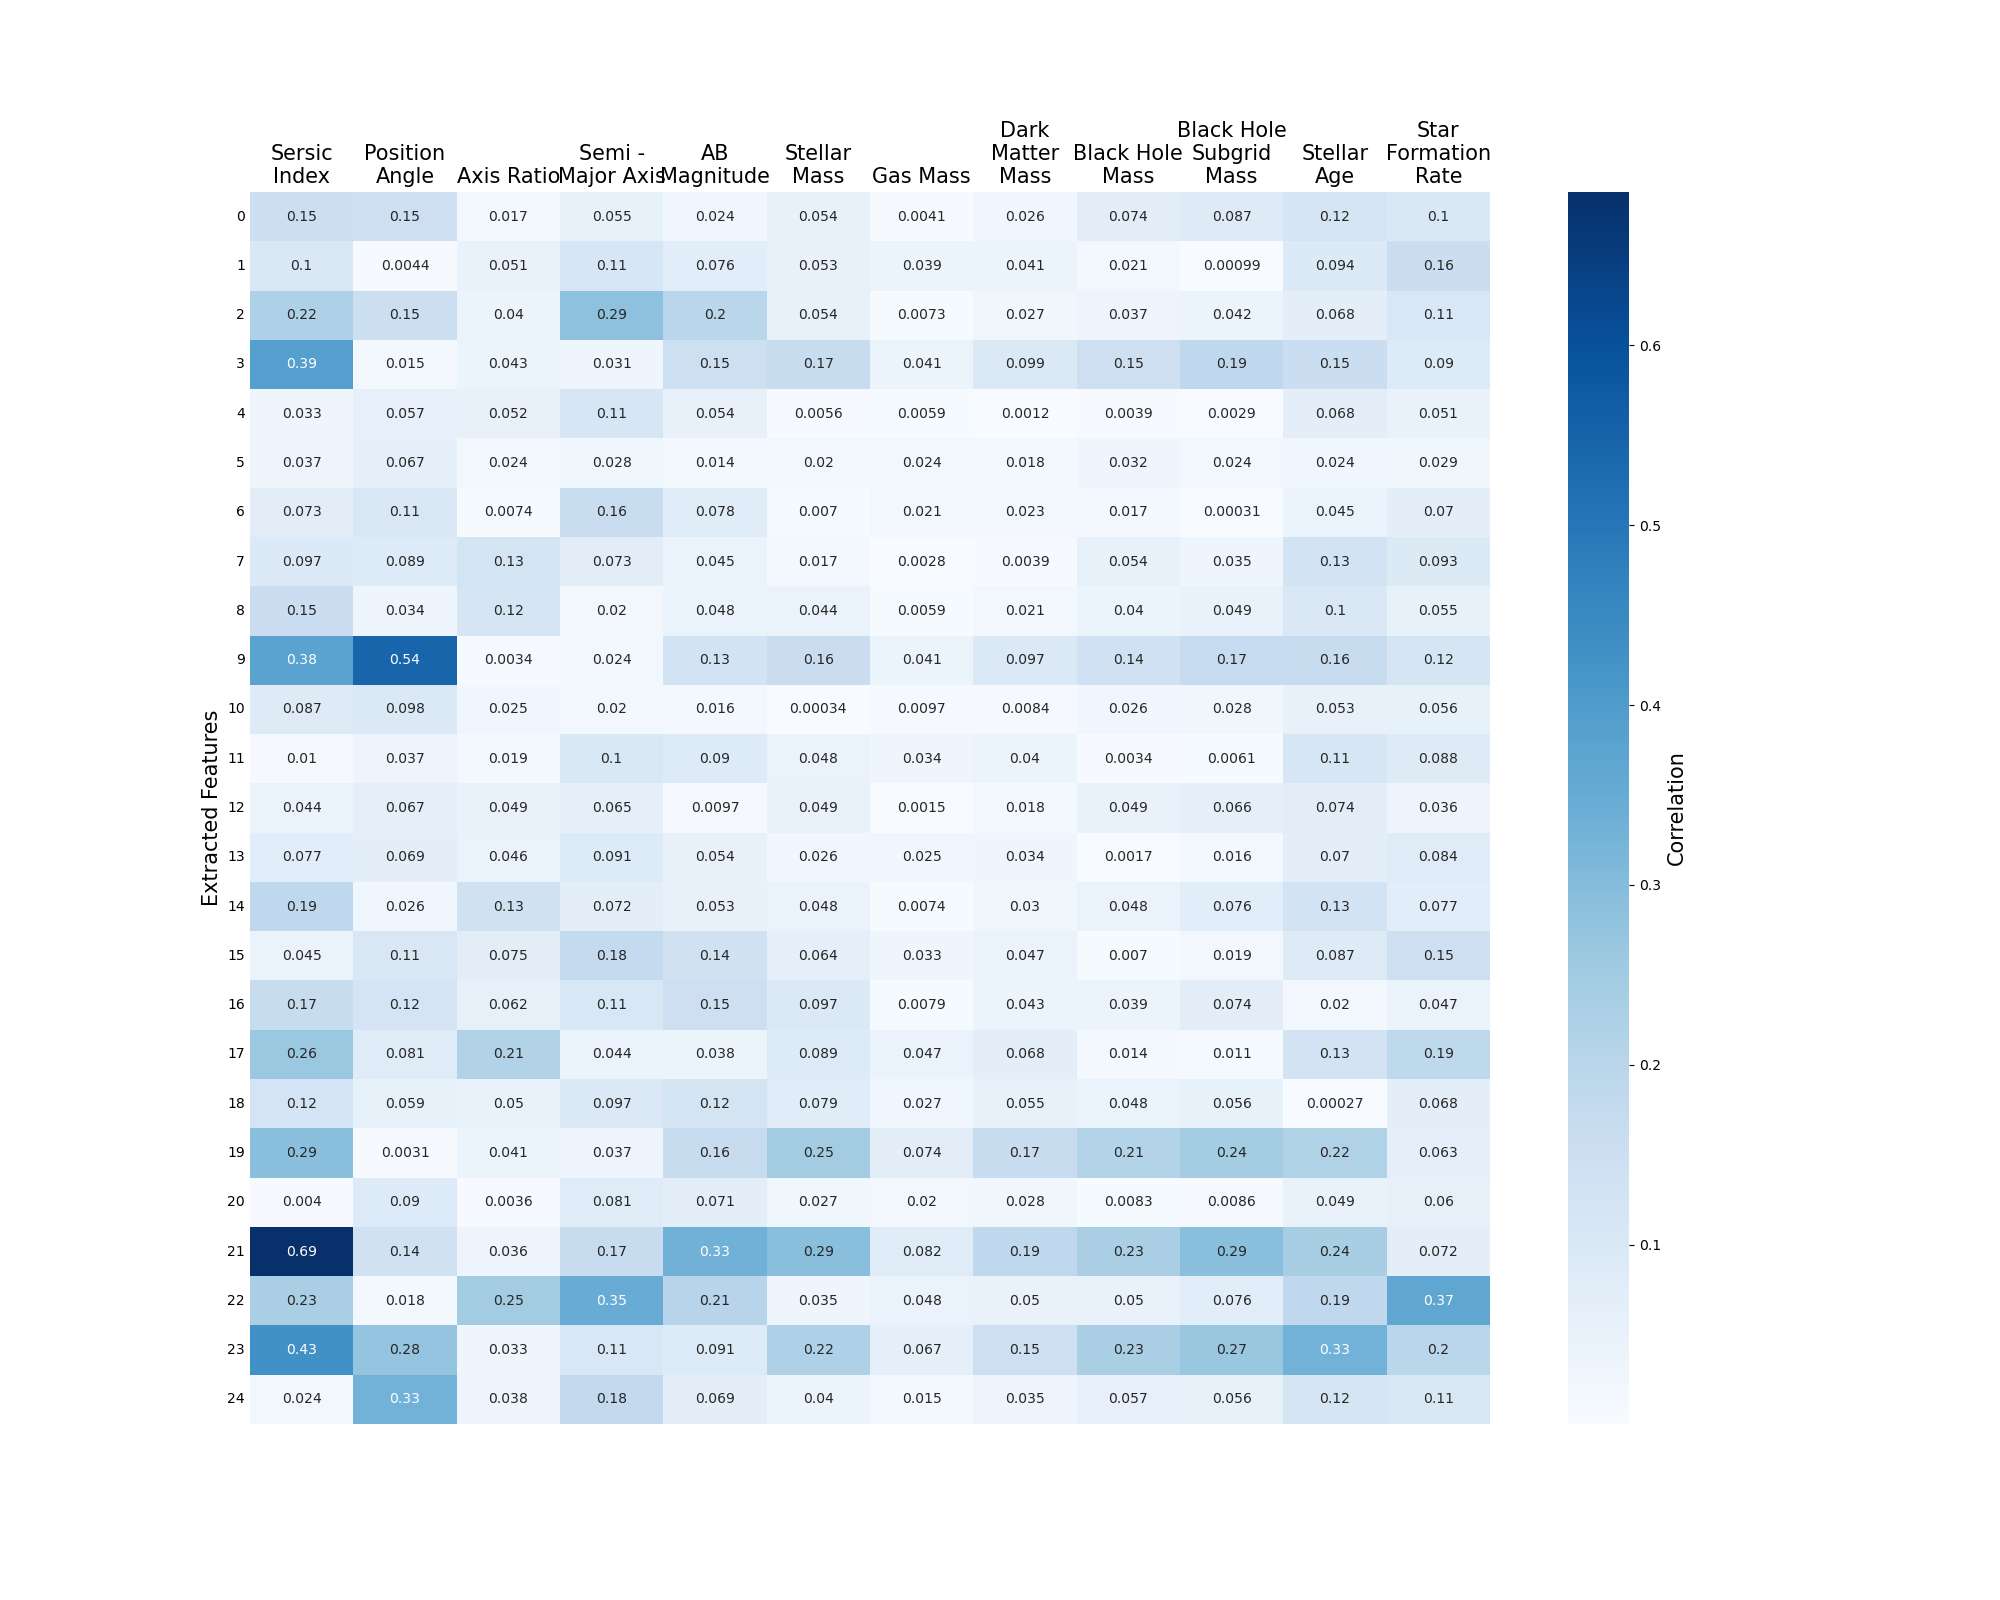
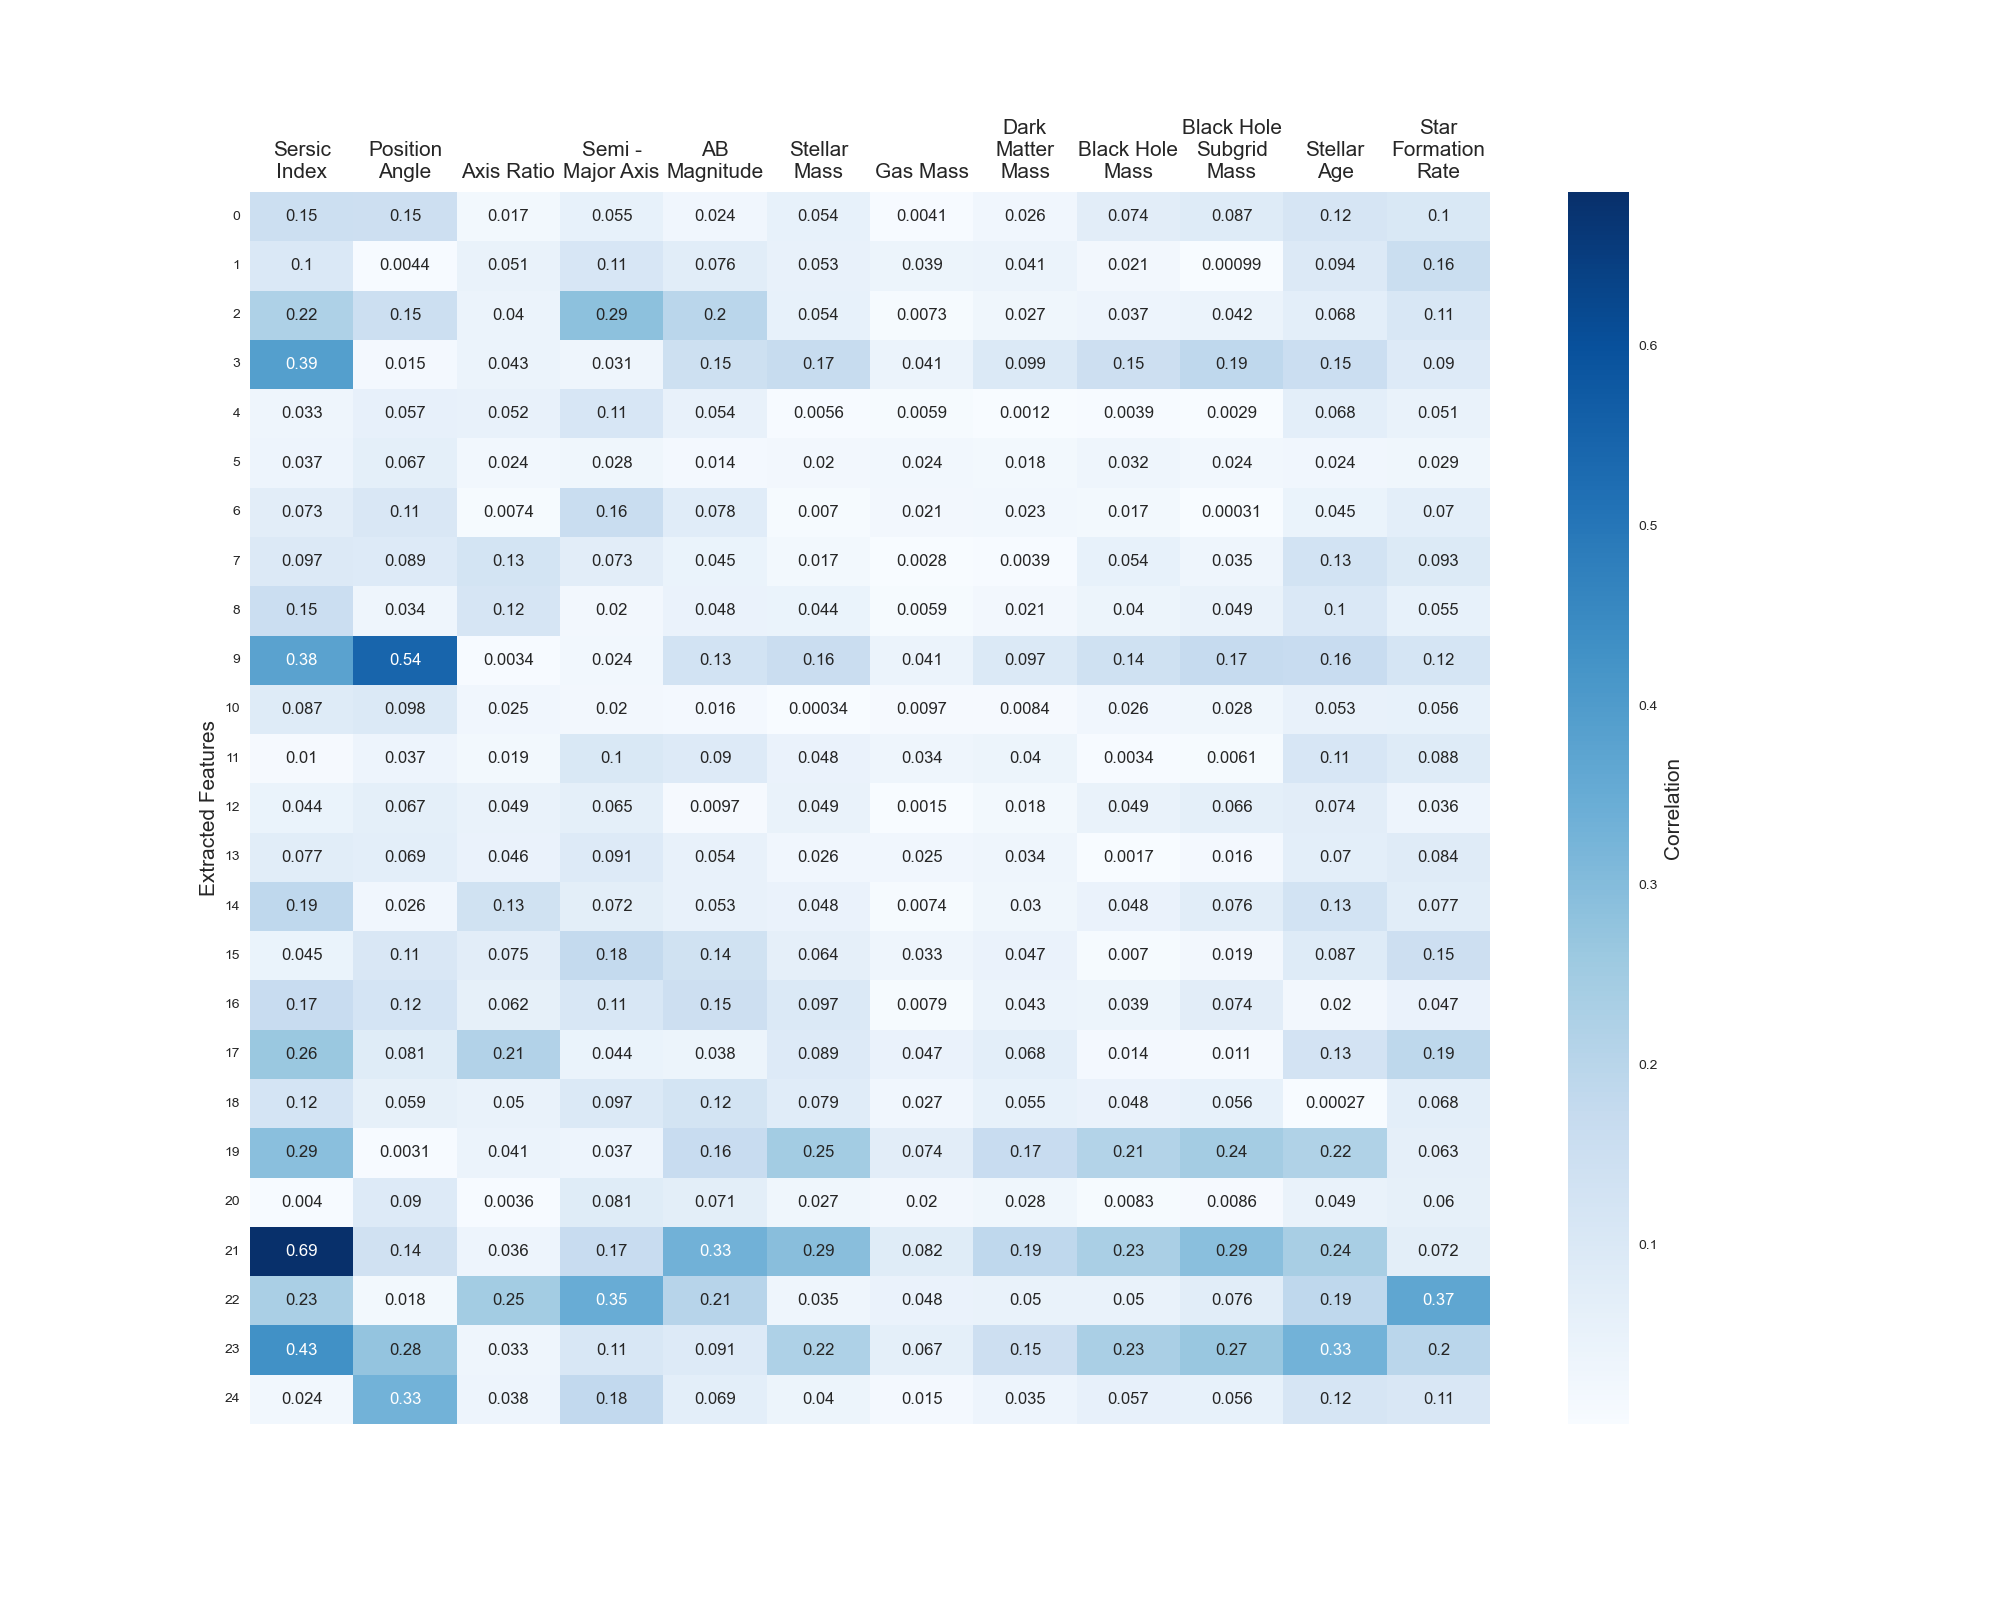
Code

diff --git a/correlation_plot.py b/correlation_plot.py
@@ -7,7 +7,7 @@ from sklearn.cluster import AgglomerativeClustering
 from yellowbrick.cluster import KElbowVisualizer
 
 
-encoding_dim = 40
+encoding_dim = 25
 
 
 extracted_features = np.load("Features Rand/" + str(encoding_dim) + "_features_2.npy")
@@ -85,18 +85,24 @@ print(correlation_df)
 # # set the figure size
 # plt.figure(figsize=(12, 16))
 #
-# # sns.set(font_scale = 2)
+# sns.set(font_scale=1.5)
 #
 # # plot a heatmap for the dataframe (with annotations)
-# ax = sns.heatmap(abs(structure_correlation_df), annot=True, cmap="Blues", cbar_kws={'label': 'Correlation'})
+# ax = sns.heatmap(abs(correlation_df[["Sersic Index", "Position Angle", "Axis Ratio"]]), annot=True, cmap="Blues", cbar_kws={'label': 'Correlation Coefficient'})
 #
 #
 # plt.yticks(rotation=0)
-# plt.ylabel("Extracted Features", fontsize=15)
+# plt.ylabel("Extracted Features", fontsize=22, labelpad=10)
 # ax.xaxis.tick_top() # x axis on top
 # ax.xaxis.set_label_position('top')
 # ax.tick_params(length=0)
-# ax.figure.axes[-1].yaxis.label.set_size(15)
+#
+# ax.figure.axes[-1].yaxis.label.set_size(22)
+# ax.figure.axes[-1].yaxis.labelpad = 15
+#
+#
+# # colorbar = plt.colorbar(ax)
+# # colorbar.setlabel("Correlation Coefficient", fontsize=22, labelpad=10)
 #
 #
 # def wrap_labels(ax, width, break_long_words=False):
@@ -105,51 +111,14 @@ print(correlation_df)
 #         text = label.get_text()
 #         labels.append(textwrap.fill(text, width=width,
 #                       break_long_words=break_long_words))
-#     ax.set_xticklabels(labels, rotation=0, fontsize=15)
+#     ax.set_xticklabels(labels, rotation=0, fontsize=22)
 #
 # wrap_labels(ax, 10)
 #
 #
 #
-# plt.savefig("Correlation Plots Rand/" + str(encoding_dim) + "_feature_structure_property_correlation")
+# plt.savefig("Correlation Plots Rand/" + str(encoding_dim) + "_feature_structure_property_correlation_2.eps")
 # plt.show()
-
-
-
-
-# # set the figure size
-# plt.figure(figsize=(15, 16))
-#
-# # sns.set(font_scale = 2)
-#
-# # plot a heatmap for the dataframe (with annotations)
-# ax = sns.heatmap(abs(physical_correlation_df), annot=True, cmap="Blues", cbar_kws={'label': 'Correlation'})
-#
-#
-# plt.yticks(rotation=0)
-# plt.ylabel("Extracted Features", fontsize=15)
-# ax.xaxis.tick_top() # x axis on top
-# ax.xaxis.set_label_position('top')
-# ax.tick_params(length=0)
-# ax.figure.axes[-1].yaxis.label.set_size(15)
-#
-#
-# def wrap_labels(ax, width, break_long_words=False):
-#     labels = []
-#     for label in ax.get_xticklabels():
-#         text = label.get_text()
-#         labels.append(textwrap.fill(text, width=width,
-#                       break_long_words=break_long_words))
-#     ax.set_xticklabels(labels, rotation=0, fontsize=15)
-#
-# wrap_labels(ax, 10)
-#
-#
-#
-# plt.savefig("Correlation Plots Rand/" + str(encoding_dim) + "_feature_physical_property_correlation")
-# plt.show()
-
-
 
 
 
@@ -157,22 +126,20 @@ print(correlation_df)
 # set the figure size
 plt.figure(figsize=(20, 16))
 
-# sns.set(font_scale = 2)
-
-# ["Sersic Index", "Axis Ratio", "Semi - Major Axis", "AB Magnitude", "Stellar Mass", "Gas Mass", "Dark Matter Mass", "Black Hole Particle Mass", "Black Hole Subgrid Mass", "Stellar Age", "Star Formation Rate"]
+sns.set(font_scale=1.5)
 
 # plot a heatmap for the dataframe (with annotations)
-# ax = sns.heatmap(abs(correlation_df[["Sersic Index", "Semi - Major Axis", "AB Magnitude", "Star Formation Rate", "Stellar Mass", "Dark Matter Mass", "Black Hole Mass"]]), annot=True, cmap="Blues", cbar_kws={'label': 'Correlation'})
-ax = sns.heatmap(abs(correlation_df), annot=True, cmap="Blues", cbar_kws={'label': 'Correlation'})
-
+ax = sns.heatmap(abs(correlation_df[["Semi - Major Axis", "Stellar Age", "Star Formation Rate", "Stellar Mass", "Dark Matter Mass", "Black Hole Mass"]]), annot=True, cmap="Blues", cbar_kws={'label': 'Correlation Coefficient'})
 
 
 plt.yticks(rotation=0)
-plt.ylabel("Extracted Features", fontsize=15)
+plt.ylabel("Extracted Features", fontsize=22)
 ax.xaxis.tick_top() # x axis on top
 ax.xaxis.set_label_position('top')
 ax.tick_params(length=0)
-ax.figure.axes[-1].yaxis.label.set_size(15)
+
+ax.figure.axes[-1].yaxis.label.set_size(22)
+ax.figure.axes[-1].yaxis.labelpad = 15
 
 
 def wrap_labels(ax, width, break_long_words=False):
@@ -181,11 +148,52 @@ def wrap_labels(ax, width, break_long_words=False):
         text = label.get_text()
         labels.append(textwrap.fill(text, width=width,
                       break_long_words=break_long_words))
-    ax.set_xticklabels(labels, rotation=0, fontsize=15)
+    ax.set_xticklabels(labels, rotation=0, fontsize=22)
 
 wrap_labels(ax, 10)
 
 
 
-plt.savefig("Correlation Plots Rand/" + str(encoding_dim) + "_feature_all_property_correlation_2")
+plt.savefig("Correlation Plots Rand/" + str(encoding_dim) + "_feature_physical_property_correlation_2")
 plt.show()
+
+
+
+
+
+
+# # set the figure size
+# plt.figure(figsize=(20, 16))
+#
+# # sns.set(font_scale = 2)
+#
+# # ["Sersic Index", "Axis Ratio", "Semi - Major Axis", "AB Magnitude", "Stellar Mass", "Gas Mass", "Dark Matter Mass", "Black Hole Particle Mass", "Black Hole Subgrid Mass", "Stellar Age", "Star Formation Rate"]
+#
+# # plot a heatmap for the dataframe (with annotations)
+# # ax = sns.heatmap(abs(correlation_df[["Sersic Index", "Semi - Major Axis", "AB Magnitude", "Star Formation Rate", "Stellar Mass", "Dark Matter Mass", "Black Hole Mass"]]), annot=True, cmap="Blues", cbar_kws={'label': 'Correlation'})
+# ax = sns.heatmap(abs(correlation_df), annot=True, cmap="Blues", cbar_kws={'label': 'Correlation'})
+#
+#
+#
+# plt.yticks(rotation=0)
+# plt.ylabel("Extracted Features", fontsize=15)
+# ax.xaxis.tick_top() # x axis on top
+# ax.xaxis.set_label_position('top')
+# ax.tick_params(length=0)
+# ax.figure.axes[-1].yaxis.label.set_size(15)
+#
+#
+# def wrap_labels(ax, width, break_long_words=False):
+#     labels = []
+#     for label in ax.get_xticklabels():
+#         text = label.get_text()
+#         labels.append(textwrap.fill(text, width=width,
+#                       break_long_words=break_long_words))
+#     ax.set_xticklabels(labels, rotation=0, fontsize=15)
+#
+# wrap_labels(ax, 10)
+#
+#
+#
+# plt.savefig("Correlation Plots Rand/" + str(encoding_dim) + "_feature_all_property_correlation_2")
+# plt.show()
